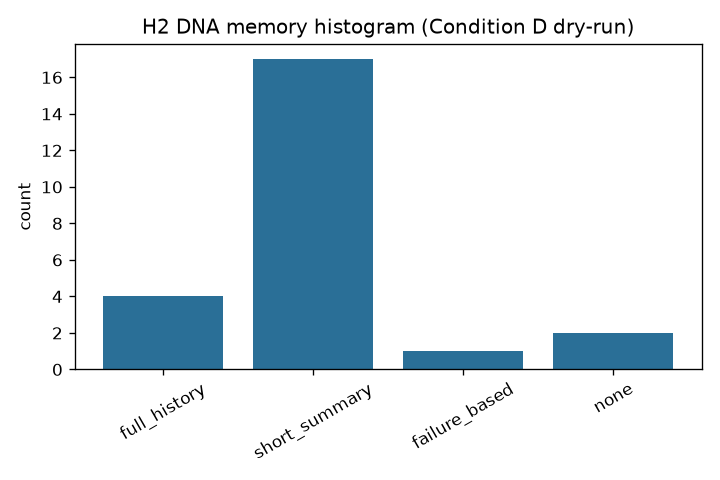
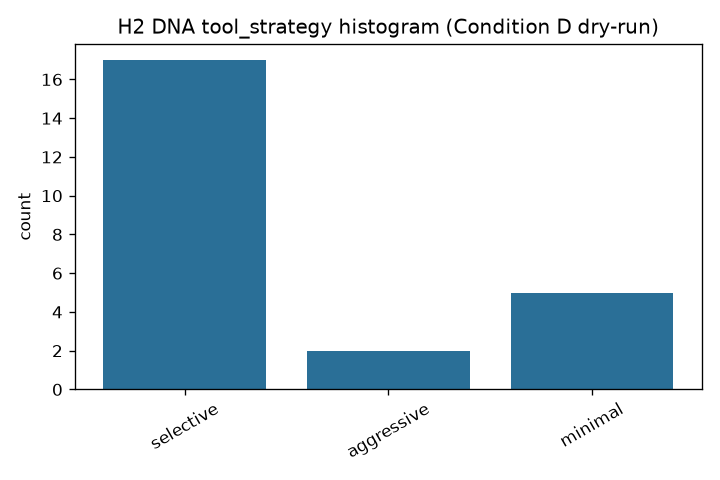
ICML Tick 362: offline Fig 2 uses primary H2 field.
Align paper Fig 2 and D_h2_share with auto-resolved h2 (tool_strategy /
retry_policy) instead of hard-coded h2_memory; regenerate offline artifacts.

diff --git a/tests/test_offline_case_study_steered.py b/tests/test_offline_case_study_steered.py
@@ -45,6 +45,95 @@ def _write_agent(run_dir: Path, gen: int, agent_id: int, *, trait: str, fitness:
     )
 
 
+def test_offline_fig2_uses_primary_h2_field_not_memory(tmp_path: Path, monkeypatch):
+    """Tick 362: offline Fig 2 must plot primary H2 (tool_strategy), not h2_memory."""
+    from offline_bvd_case_study import _maybe_figures
+
+    d_run = tmp_path / "run_d"
+    d_run.mkdir()
+    # summarize_run returns conflicting primary vs memory histograms — fig2 must
+    # follow primary ``h2`` (tool_strategy), not legacy ``h2_memory``.
+    fake = {
+        "learning_curve": {
+            "1": {"best": 0.2, "mean": 0.18},
+            "2": {"best": 0.25, "mean": 0.22},
+            "3": {"best": 0.31, "mean": 0.28},
+        },
+        "h2": {
+            "field": "tool_strategy",
+            "counts": {"selective": 9, "aggressive": 3},
+            "in_bias_share": 0.75,
+        },
+        "h2_field": "tool_strategy",
+        "h2_memory": {
+            "field": "memory",
+            "counts": {"short_summary": 8, "none": 4},
+            "in_bias_share": 0.1,
+        },
+    }
+    monkeypatch.setattr("offline_bvd_case_study.summarize_run", lambda _p: fake)
+
+    captured: dict[str, object] = {}
+
+    class _Ax:
+        def bar(self, labels, vals, color=None):  # noqa: ANN001
+            captured["labels"] = list(labels)
+            captured["vals"] = list(vals)
+
+        def plot(self, *a, **k):  # noqa: ANN001, ARG002
+            return None
+
+        def set_xlabel(self, *a, **k):  # noqa: ANN001, ARG002
+            return None
+
+        def set_ylabel(self, *a, **k):  # noqa: ANN001, ARG002
+            return None
+
+        def set_title(self, title, *a, **k):  # noqa: ANN001, ARG002
+            captured["title"] = title
+
+        def tick_params(self, *a, **k):  # noqa: ANN001, ARG002
+            return None
+
+        def grid(self, *a, **k):  # noqa: ANN001, ARG002
+            return None
+
+        def legend(self, *a, **k):  # noqa: ANN001, ARG002
+            return None
+
+    class _Fig:
+        def tight_layout(self):
+            return None
+
+        def savefig(self, *a, **k):  # noqa: ANN001, ARG002
+            return None
+
+    class _Plt:
+        @staticmethod
+        def subplots(*a, **k):  # noqa: ANN001, ARG002
+            return _Fig(), _Ax()
+
+        @staticmethod
+        def close(*a, **k):  # noqa: ANN001, ARG002
+            return None
+
+    import types
+    import sys
+
+    fake_mpl = types.ModuleType("matplotlib")
+    fake_mpl.use = lambda *a, **k: None  # noqa: ARG005
+    fake_pyplot = _Plt()
+    monkeypatch.setitem(sys.modules, "matplotlib", fake_mpl)
+    monkeypatch.setitem(sys.modules, "matplotlib.pyplot", fake_pyplot)
+
+    out = tmp_path / "figs"
+    written = _maybe_figures([], [d_run], out)
+    assert any("fig2_mechanism.png" in p for p in written)
+    assert captured.get("labels") == ["selective", "aggressive"]
+    assert "tool_strategy" in str(captured.get("title"))
+    assert "memory" not in str(captured.get("title")).lower()
+
+
 def test_preferred_share_helper():
     traits = [{"trait": "stepwise"}, {"trait": "direct"}, {"trait": "stepwise"}, {"trait": "hierarchical"}]
     assert preferred_share(traits, "stepwise") == 0.5

diff --git a/scripts/offline_bvd_case_study.py b/scripts/offline_bvd_case_study.py
@@ -504,16 +504,19 @@ def _maybe_figures(b_runs: list[Path], d_runs: list[Path], out_dir: Path) -> lis
     except ValueError:
         written.append(str(path))
 
-    # Fig 2 from first D run H2 histogram via summarize
+    # Fig 2 from first D run primary H2 (Tick 362: prefer auto-resolved field,
+    # typically tool_strategy — not hard-coded h2_memory / memory alleles).
     if d_runs:
         s = summarize_run(d_runs[0])
-        counts = (s.get("h2_memory") or {}).get("counts") or {}
+        h2 = s.get("h2") or s.get("h2_memory") or {}
+        counts = h2.get("counts") or {}
         if counts:
+            field = str(h2.get("field") or s.get("h2_field") or "memory")
             fig, ax = plt.subplots(figsize=(6, 4))
             labels = list(counts.keys())
             vals = [counts[k] for k in labels]
             ax.bar(labels, vals, color="#2a6f97")
-            ax.set_title("H2 DNA memory histogram (Condition D dry-run)")
+            ax.set_title(f"H2 DNA {field} histogram (Condition D dry-run)")
             ax.set_ylabel("count")
             ax.tick_params(axis="x", rotation=30)
             path = out_dir / "fig2_mechanism.png"
@@ -668,7 +671,14 @@ def main(argv: list[str] | None = None) -> int:
                 "D_h5_pass": (r["D"].get("h5") or {}).get("pass"),
                 "D_h5_key": (r["D"].get("h5") or {}).get("fitness_key"),
                 "D_h5_horizon": (r["D"].get("h5") or {}).get("delta_horizon"),
-                "D_h2_share": (r["D"].get("h2_memory") or {}).get("in_bias_share"),
+                # Tick 362: primary H2 (auto field), not legacy h2_memory-only.
+                "D_h2_field": (r["D"].get("h2") or r["D"].get("h2_memory") or {}).get(
+                    "field"
+                )
+                or r["D"].get("h2_field"),
+                "D_h2_share": (r["D"].get("h2") or r["D"].get("h2_memory") or {}).get(
+                    "in_bias_share"
+                ),
             }
             for r in compare.get("rows", [])
         ],

diff --git a/scripts/icml_env_checks.py b/scripts/icml_env_checks.py
@@ -2000,12 +2000,13 @@ def suggested_open_git_pr_body(
         )
     return (
         f"## Summary\n"
-        f"- Tick {tick}: live H2 bias-field auto-resolve — `resolve_h2_bias_field` / "
-        f"`compute_h2(field=None)` / G4 `score_live_h2` prefer the DNA field CABS "
-        f"actually biased (typically `tool_strategy`) instead of hard-coded "
-        f"`memory` (latent MECHANISM false-fail when bias≠memory). Tick 360 also "
-        f"emits PRIMARY `mean_final_b/d/gap` + `primary_final_pass` so G3→G4 "
-        f"promising and criterion (c) require mean gap >1pp. Tip PR GitHub "
+        f"- Tick {tick}: offline Fig 2 / summary **primary H2** alignment — "
+        f"`offline_bvd_case_study._maybe_figures` + `D_h2_share` follow auto-"
+        f"resolved `h2` (typically `tool_strategy` / `retry_policy`) instead of "
+        f"hard-coded `h2_memory`. Tick 361 already fixed live "
+        f"`resolve_h2_bias_field` / `compute_h2(field=None)` / G4 "
+        f"`score_live_h2`; Tick 360 emits PRIMARY `mean_final_b/d/gap` + "
+        f"`primary_final_pass`. Tip PR GitHub "
         f"**title and body** stay frozen when using `open_git_pr` MCP (does "
         f"**not** rewrite either on existing PRs — Tick 345 title finding; "
         f"Tick 346 body confirmation; Tick 347 independent ``tip_pr_body_stale``; "

diff --git a/docs/icml_live_pipeline_report.md b/docs/icml_live_pipeline_report.md
@@ -1,6 +1,6 @@
 # ICML live pipeline report — G2 → G3 → G4
 
-**Timestamp:** 2026-09-06T14:04:38Z
+**Timestamp:** 2026-09-06T18:06:01Z
 **Mode:** `preflight`
 **Ready for live stack:** no
 **ICML_READY:** IN_PROGRESS
@@ -57,4 +57,4 @@ G3 promising: n/a (G3 not scored this run)
 3. Portal Save of `docs/icml_portal_save_target.json` is **optional** (Tick 265–267: uv + runtime deps bootstrap in preflight).
 4. Do **not** set STATUS: READY from offline / preflight alone.
 5. Optional interim (easier than full tip): merge main-only AGENTS chicken-egg bootstrap PR #338 https://github.com/kshivam4781/DarwinianSIA/pull/338 — GitHub MERGEABLE/CLEAN: undraft & merge now (no conflicts) (branch `cursor/icml-main-agents-bootstrap`; Tick 341–342; 1-file — **not** a tip PR; does not replace merging the tip). Copy-paste: `gh pr ready 338 --repo kshivam4781/DarwinianSIA && gh pr merge 338 --repo kshivam4781/DarwinianSIA --merge`. Agents: tip anti-churn tip PR is unchanged — still commit/`open_git_pr` on `tip_pr_commit_branch` only.
-6. Merge the latest ICML tip PR into `main` so cron inherits `docs/ICML_*` + `scripts/icml_cron_entry.sh` (Tick 327–340 dual unblock; `main` still has hackathon-era AGENTS without tip files). See `docs/ICML_HUMAN_UNBLOCK.md` Dual human unblock. Concrete tip PR: #337 https://github.com/kshivam4781/DarwinianSIA/pull/337 — GitHub MERGEABLE/CLEAN: undraft & merge now (no conflicts). Copy-paste: `gh pr ready 337 --repo kshivam4781/DarwinianSIA && gh pr merge 337 --repo kshivam4781/DarwinianSIA --merge`. Agents/cron: do NOT open a new tip PR — checkout `cursor/icml-epistemic-results-f49c` (tip_pr_commit_branch; Tick 338–339 cron + tip recover --apply auto-checkout via icml_cron_entry / icml_boot_recover / icml_recover_tip) and push here so PR #337 updates (bash scripts/icml_checkout_tip_pr_branch.sh; open_git_pr branch=`cursor/icml-epistemic-results-f49c` — Tick 340: NEVER omit branch=; open_git_pr defaults to the greenfield boot branch and would open a new tip PR; see docs/icml_open_git_pr.json; Tick 344: also pass title=`suggested_open_git_pr_title` from that JSON when tip_pr_title_stale — stale titles look superseded among 300+ drafts; secrets-first title when fetch_diamond_ok is false; Tick 348–349: also pass description= from `open_git_pr_description` in `docs/icml_open_git_pr.json` (or `docs/icml_tip_pr_body.md`) when tip_pr_body_stale; Tick 350: prefer verbatim `docs/icml_open_git_pr_call.json` (branch/title/description); Tick 352: call JSON records ``cloud_boot_branch`` / ``omit_branch_opens_pr_on``; Tick 352: this run's cloud_boot_branch=`cursor/icml-epistemic-results-ff25` — omitting branch= opens a NEW tip PR on `cursor/icml-epistemic-results-ff25` (not `cursor/icml-epistemic-results-f49c`); Cloud Agent 'correct working branch' does NOT override tip anti-churn. Tick 345–347: if GitHub title/body stays stale, copy-paste `tip_pr_title_edit_commands` (`gh pr edit --title [--body-file docs/icml_tip_pr_body.md]`) — open_git_pr MCP does not rewrite title or body). Merge before next cron (~2h). Older tip PRs are superseded; merge only #337.
+6. Merge the latest ICML tip PR into `main` so cron inherits `docs/ICML_*` + `scripts/icml_cron_entry.sh` (Tick 327–340 dual unblock; `main` still has hackathon-era AGENTS without tip files). See `docs/ICML_HUMAN_UNBLOCK.md` Dual human unblock. Concrete tip PR: #337 https://github.com/kshivam4781/DarwinianSIA/pull/337 — GitHub MERGEABLE/CLEAN: undraft & merge now (no conflicts). Copy-paste: `gh pr ready 337 --repo kshivam4781/DarwinianSIA && gh pr merge 337 --repo kshivam4781/DarwinianSIA --merge`. Agents/cron: do NOT open a new tip PR — checkout `cursor/icml-epistemic-results-f49c` (tip_pr_commit_branch; Tick 338–339 cron + tip recover --apply auto-checkout via icml_cron_entry / icml_boot_recover / icml_recover_tip) and push here so PR #337 updates (bash scripts/icml_checkout_tip_pr_branch.sh; open_git_pr branch=`cursor/icml-epistemic-results-f49c` — Tick 340: NEVER omit branch=; open_git_pr defaults to the greenfield boot branch and would open a new tip PR; see docs/icml_open_git_pr.json; Tick 344: also pass title=`suggested_open_git_pr_title` from that JSON when tip_pr_title_stale — stale titles look superseded among 300+ drafts; secrets-first title when fetch_diamond_ok is false; Tick 348–349: also pass description= from `open_git_pr_description` in `docs/icml_open_git_pr.json` (or `docs/icml_tip_pr_body.md`) when tip_pr_body_stale; Tick 350: prefer verbatim `docs/icml_open_git_pr_call.json` (branch/title/description); Tick 352: call JSON records ``cloud_boot_branch`` / ``omit_branch_opens_pr_on``; Tick 352: this run's cloud_boot_branch=`cursor/icml-epistemic-results-6090` — omitting branch= opens a NEW tip PR on `cursor/icml-epistemic-results-6090` (not `cursor/icml-epistemic-results-f49c`); Cloud Agent 'correct working branch' does NOT override tip anti-churn. Tick 345–347: if GitHub title/body stays stale, copy-paste `tip_pr_title_edit_commands` (`gh pr edit --title [--body-file docs/icml_tip_pr_body.md]`) — open_git_pr MCP does not rewrite title or body). Merge before next cron (~2h). Older tip PRs are superseded; merge only #337.

diff --git a/docs/icml_tip_pr_body.md b/docs/icml_tip_pr_body.md
@@ -1,5 +1,5 @@
 ## Summary
-- Tick 361: live H2 bias-field auto-resolve — `resolve_h2_bias_field` / `compute_h2(field=None)` / G4 `score_live_h2` prefer the DNA field CABS actually biased (typically `tool_strategy`) instead of hard-coded `memory` (latent MECHANISM false-fail when bias≠memory). Tick 360 also emits PRIMARY `mean_final_b/d/gap` + `primary_final_pass` so G3→G4 promising and criterion (c) require mean gap >1pp. Tip PR GitHub **title and body** stay frozen when using `open_git_pr` MCP (does **not** rewrite either on existing PRs — Tick 345 title finding; Tick 346 body confirmation; Tick 347 independent ``tip_pr_body_stale``; Tick 348–349 pass ``description=`` from `open_git_pr_description` in `docs/icml_open_git_pr.json` or `docs/icml_tip_pr_body.md`; Tick 350: prefer verbatim args from `docs/icml_open_git_pr_call.json`; Tick 353–359: cron exports `ICML_CLOUD_BOOT_BRANCH` before tip recover; Tick 354 ignores env==tip + persists `docs/icml_cloud_boot_branch.txt`; Tick 355 unsets env==tip and does not clobber the boot file with tip; Tick 356 gitignores the boot file + excludes it from ephemeral discard so tip --apply cannot wipe it; Tick 357 rejects short/non-``cursor/*`` boot poison + ``icml_checkout_tip_pr_branch.sh`` persists boot before tip checkout; Tick 358 checkout also refreshes `docs/icml_open_git_pr_call.json` so ``cloud_boot_branch`` matches the just-persisted boot; Tick 359 gitignores call JSON + excludes it from ephemeral discard so tip --apply cannot ``git restore`` a stale committed boot name). Refresh via `tip_pr_title_edit_commands` (`gh pr edit --title … --body-file docs/icml_tip_pr_body.md`).
+- Tick 362: offline Fig 2 / summary **primary H2** alignment — `offline_bvd_case_study._maybe_figures` + `D_h2_share` follow auto-resolved `h2` (typically `tool_strategy` / `retry_policy`) instead of hard-coded `h2_memory`. Tick 361 already fixed live `resolve_h2_bias_field` / `compute_h2(field=None)` / G4 `score_live_h2`; Tick 360 emits PRIMARY `mean_final_b/d/gap` + `primary_final_pass`. Tip PR GitHub **title and body** stay frozen when using `open_git_pr` MCP (does **not** rewrite either on existing PRs — Tick 345 title finding; Tick 346 body confirmation; Tick 347 independent ``tip_pr_body_stale``; Tick 348–349 pass ``description=`` from `open_git_pr_description` in `docs/icml_open_git_pr.json` or `docs/icml_tip_pr_body.md`; Tick 350: prefer verbatim args from `docs/icml_open_git_pr_call.json`; Tick 353–359: cron exports `ICML_CLOUD_BOOT_BRANCH` before tip recover; Tick 354 ignores env==tip + persists `docs/icml_cloud_boot_branch.txt`; Tick 355 unsets env==tip and does not clobber the boot file with tip; Tick 356 gitignores the boot file + excludes it from ephemeral discard so tip --apply cannot wipe it; Tick 357 rejects short/non-``cursor/*`` boot poison + ``icml_checkout_tip_pr_branch.sh`` persists boot before tip checkout; Tick 358 checkout also refreshes `docs/icml_open_git_pr_call.json` so ``cloud_boot_branch`` matches the just-persisted boot; Tick 359 gitignores call JSON + excludes it from ephemeral discard so tip --apply cannot ``git restore`` a stale committed boot name). Refresh via `tip_pr_title_edit_commands` (`gh pr edit --title … --body-file docs/icml_tip_pr_body.md`).
 - **PRIMARY blocker:** add `NEBIUS_API_KEY` + (`HF_TOKEN` or local `gpqa_diamond.csv`) so cron can run live G2→G3→G4.
 - Offline PRIMARY/H5 unchanged (`1890–1904`); STATUS remains IN_PROGRESS (not READY).
 

diff --git a/docs/gate2_report.md b/docs/gate2_report.md
@@ -1,8 +1,8 @@
 # Gate 2 report — GPQA smoke (Condition D)
 
-**Timestamp:** 2026-09-06T14:06:23Z
-**Mode:** `dry-run`
-**Run ID:** `1910`
+**Timestamp:** 2026-09-06T18:06:06Z
+**Mode:** `preflight`
+**Run ID:** `1300`
 
 ## Preflight checks
 
@@ -13,14 +13,14 @@
 | `gpqa_smoke_or_real` | yes | synthetic smoke OK for dry-run/preflight |
 | `anthropic_key` | yes | optional (Nebius meta; ANTHROPIC unused) |
 | `nebius_key` | NO | NEBIUS_API_KEY missing |
-| `hf_token_optional` | yes | missing (optional; needed for HF gpqa download) |
+| `hf_token` | NO | HF_TOKEN / HUGGINGFACE_HUB_TOKEN missing (required for --fetch-diamond) |
 | `budget` | yes | spent=$0.00 ceiling=$20.00 |
-| `run_id_free` | yes | run_1910 unused |
+| `run_id_free` | yes | run_1300 unused |
 | `per_run_venv` | yes | uv available at /home/ubuntu/.local/bin/uv (SIA per-run venv path) |
 | `runtime_deps` | yes | uv available at /home/ubuntu/.local/bin/uv; sia importable via PYTHONPATH=/workspace/SIA; huggingface_hub + pydantic_ai already importable; user site on PYTHONPATH (/home/ubuntu/.local/lib/python3.12/site-packages) |
 | `nebius_meta_profile` | yes | kimi-nebius-pydantic-meta → nebius / pydantic-ai (moonshotai/Kimi-K2.6) |
 | `nebius_target_profile` | yes | kimi-nebius-target → nebius (moonshotai/Kimi-K2.6) |
-| `tip_ok_for_live` | yes | local Tick 359 matches remote tip refs/remotes/origin/cursor/icml-epistemic-results-f49c |
+| `tip_ok_for_live` | yes | local Tick 362 matches remote tip refs/remotes/origin/cursor/icml-epistemic-results-f49c |
 
 **Ready for dry-run:** yes
 **Ready for live G2:** no
@@ -28,25 +28,21 @@
 ## Planned command
 
 ```bash
-/usr/bin/python3 -m sia run --task gpqa --darwinian --cabs --cabs-inline --population_size 2 --elite_count 1 --max_gen 2 --run_id 1910 --eval_subset 5 --no-web --seed 42 --dry-run --meta-agent-profile kimi-nebius-pydantic-meta --target-agent-profile kimi-nebius-target
+/usr/bin/python3 -m sia run --task gpqa --darwinian --cabs --cabs-inline --population_size 2 --elite_count 1 --max_gen 2 --run_id 1300 --eval_subset 5 --no-web --seed 42 --dry-run --meta-agent-profile kimi-nebius-pydantic-meta --target-agent-profile kimi-nebius-target
 ```
 
 ## Blockers
 
 - gpqa_not_synthetic: synthetic smoke fixture detected — replace with real GPQA diamond before paid G2
 - nebius_key: NEBIUS_API_KEY missing
+- hf_token: HF_TOKEN / HUGGINGFACE_HUB_TOKEN missing (required for --fetch-diamond)
 
-## Post-run artifact validation
+## Notes
 
-| Check | OK | Detail |
-|-------|----|--------|
-| `run_dir` | yes | /workspace/SIA/runs/run_1910 |
-| `belief_store` | yes | /workspace/SIA/runs/run_1910/belief_store |
-| `epistemic_value_jsonl` | yes | present |
-| `cabs_json` | yes | contradictions/beliefs present |
-| `scoped_mutation_bias` | yes | fields=['memory', 'tool_strategy'] |
+- runtime deps before diamond: uv available at /home/ubuntu/.local/bin/uv; sia importable via PYTHONPATH=/workspace/SIA; huggingface_hub + pydantic_ai already importable; user site on PYTHONPATH (/home/ubuntu/.local/lib/python3.12/site-packages)
+- diamond fetch failed: HF_TOKEN / HUGGINGFACE_HUB_TOKEN required to download gated Idavidrein/gpqa. Accept dataset terms on HuggingFace, then set the token.
 
-**G2 dry-run harness status:** PASS (not live G2)
+**G2 live status:** NOT RUN this tick
 
 ## Next
 

diff --git a/docs/HACKATHON_MASTER_PLAN.md b/docs/HACKATHON_MASTER_PLAN.md
@@ -2,7 +2,7 @@
 
 > **READ THIS FIRST.** Any agent working on this repo must read this entire document before planning, coding, or running expensive commands. Do not re-plan from scratch. Implement in phase order with gates.
 
-**Last updated:** 2026-09-06 (Section 21 ICML; Tick 361 live H2 bias-field auto-resolve; Tick 360 PRIMARY mean_final_gap; Tick 359 call-JSON gitignore; …)
+**Last updated:** 2026-09-06 (Section 21 ICML; Tick 362 offline Fig2 primary H2; Tick 361 live H2 bias-field auto-resolve; Tick 360 PRIMARY mean_final_gap; …)
 **Project:** SIA-CABS (Contradiction-Aware Belief System) — **Layer 1 of unified self-improvement stack**  
 **Workspace:** `c:\Users\MSPSA\Documents\SIA2`  
 **Sibling repo:** Darwinian AI Civilization → `c:\Users\MSPSA\Documents\SIA` (build in parallel; merge later)  
@@ -955,6 +955,7 @@ Computed in `cabs/belief_engine.py`:
 | ICML call-JSON gitignore + discard survive (Tick 359) | **DONE** | `docs/icml_open_git_pr_call.json` gitignored + excluded from `EPHEMERAL_ICML_RELPATHS`; cron `already_on` refreshes; tip `--apply` cannot `git restore` stale committed boot |
 | ICML PRIMARY mean_final_gap (Tick 360) | **DONE** | `compare_b_vs_d` emits `mean_final_b/d/gap` + `primary_final_pass`; G4 `primary_criteria_pass` + READY checklist use mean gap >1pp for criterion (c); G3 promising fallback no longer dead |
 | ICML live H2 bias-field auto-resolve (Tick 361) | **DONE** | `resolve_h2_bias_field` / `compute_h2(field=None)` / G4 `score_live_h2` auto-pick biased DNA field (prefer `tool_strategy`); closes latent MECHANISM false-fail when bias≠memory |
+| ICML offline Fig2 primary H2 field (Tick 362) | **DONE** | Offline `_maybe_figures` + `D_h2_share` use primary `h2` (not `h2_memory`); regen Figs 1–2; fields tool_strategy/retry_policy |
 | ICML B vs D multi-seed GPQA | **NOT DONE** | Blocked on NEBIUS + HF/CSV (Anthropic optional under Tick 289 meta); Tick 268–361 stack ready; next: secrets (+ optional merge tip→main / AGENTS bootstrap), then `bash scripts/icml_cron_entry.sh` |
 | H2 DNA trait skew evidence | **PARTIAL** | Unit + dry-run + offline post-steer case study (`run_1900` gen3 share 0.75); need live API |
 | Non-constant epistemic_value (H5) | **DONE (offline)** | Age-decay + flow + steering opportunity (`cabs_inline.py`) |
@@ -2498,4 +2499,6 @@ sia run --task gpqa --darwinian --population_size 4 --elite_count 2 \
 
 
 **ICML live H2 bias-field auto-resolve (Tick 361):** G4 `score_live_h2` / `compute_h2` previously hard-coded DNA field `memory`, while CABS contradictions and the publishable case study typically steer `tool_strategy`. Empty `bias_values` on the wrong field caused a latent live MECHANISM false-fail. Now `resolve_h2_bias_field` auto-picks the biased field (prefer `tool_strategy`). Live still blocked on NEBIUS + HF/CSV. STATUS remains IN_PROGRESS.
+
+**Offline Fig 2 primary H2 field (Tick 362):** Tick 361 fixed scoring/summarize, but offline paper Fig 2 still plotted `h2_memory` and summary `D_h2_share` ignored primary `h2`. `_maybe_figures` + brief rows now follow auto-resolved field (regen shows `tool_strategy` / `retry_policy`, not memory). STATUS remains IN_PROGRESS (still needs NEBIUS + HF/CSV).
 

diff --git a/docs/ICML_PROGRESS.md b/docs/ICML_PROGRESS.md
@@ -1,5 +1,41 @@
 # ICML Thesis 1 — Progress log
 
+## 2026-09-06T18:05Z — Tick 362 (automation cron)
+
+### Status snapshot
+- `docs/ICML_READY.md`: **STATUS: IN_PROGRESS**
+- Branch: `cursor/icml-epistemic-results-f49c` (anti-churn: commits onto tip PR #337 head)
+- Bootstrap PR (not tip): https://github.com/kshivam4781/DarwinianSIA/pull/338 — `cursor/icml-main-agents-bootstrap`
+- API keys in cloud env: **absent** (NEBIUS + HF/CSV still required; Anthropic optional)
+- Budget: ~$20 ceiling; spend this tick = $0
+- `main_has_icml_tip`: **false** (origin/main still lacks `scripts/icml_cron_entry.sh`)
+- Tip PR title+body still stale: **Tick 336** on GitHub
+- Boot branch was greenfield `cursor/icml-epistemic-results-6090`; recovered tip `f49c`
+
+### Largest gap diagnosed
+Live PRIMARY still blocked on **secrets**. Tick 361 fixed live H2 field auto-resolve in scoring, but offline paper Fig 2 (`_maybe_figures`) and `D_h2_share` still read hard-coded `h2_memory` — so the publishable mechanism figure could show memory alleles while the case study / CABS bias steers `tool_strategy` (or `retry_policy`). Highest leverage without paid spend: **align offline Fig 2 + summary H2 with primary auto-resolved field**.
+
+### What this tick did (ONE step)
+**Offline Fig 2 / summary primary-H2 alignment (no API spend; tip PR #337 updated in place):**
+1. Recovered tip ← Tick 361 (`f49c`); confirmed secrets absent; boot `6090` vs tip `f49c`
+2. `offline_bvd_case_study._maybe_figures` plots `h2` (fallback `h2_memory`) with field in title; `compare_rows_brief` emits `D_h2_field` + primary `D_h2_share`
+3. Regenerated offline Bvd `1890–1904` + Figs 1–2; H2 fields observed: tool_strategy / retry_policy (not memory); PRIMARY unchanged (final 5/5, gens30/cost30 4/5, gap ~6.15pp, H5 5/5)
+4. Test: `test_offline_fig2_uses_primary_h2_field_not_memory`; STATUS remains IN_PROGRESS; secrets re-requested
+
+### Metrics delta
+| Metric | Before (Tick 361) | After (Tick 362) |
+|--------|-------------------|------------------|
+| Offline D final / gens30 / cost30 / H5 | 5/5 / 4/5 / 4/5 / 5/5 | unchanged |
+| Offline Fig 2 DNA field | hard-coded `h2_memory` | **primary `h2`** (auto field) |
+| Summary `D_h2_field` | absent | **tool_strategy / retry_policy** |
+| Live PRIMARY / G2 | Blocked on NEBIUS + HF/CSV | Still blocked |
+| `ICML_READY` | IN_PROGRESS | IN_PROGRESS |
+
+### Next recommended step
+Human: (1) add `NEBIUS_API_KEY` (+ `HF_TOKEN` or drop `gpqa_diamond.csv`) — **PRIMARY path**; (2) optional: refresh tip PR #337 title/body via `tip_pr_title_edit_commands` and/or merge #337/#338. Then: `bash scripts/icml_cron_entry.sh` → G2→G3→G4 + paper pack → STATUS READY when criteria pass.
+
+---
+
 ## 2026-09-06T16:20Z — Tick 361 (automation cron)
 
 ### Status snapshot

diff --git a/docs/paper_artifacts.md b/docs/paper_artifacts.md
@@ -84,7 +84,7 @@ Mean final: B ≈ 0.253, D ≈ 0.314 (gap ~**6.15pp**). D final wins **5/5**; ge
 | 1 | Accuracy / cost curves B vs D (offline draft) | `docs/figures/fig1_learning_curves.png` |
 | 2 | H2 DNA skew / case-study support (offline draft) | `docs/figures/fig2_mechanism.png` |
 
-Offline Figs 1–2 regenerated at Tick **302** from live-shape pilot `1890–1904` (summary `figures` locked; Tick 300 had left `figures: []` when matplotlib was absent).
+Offline Figs 1–2 regenerated at Tick **362** from live-shape pilot `1890–1904` using **primary H2** (auto-resolved DNA field — typically `tool_strategy`, not hard-coded `memory`; Tick 302 first populated on-disk paths).
 
 ## Case study (offline)
 
@@ -93,7 +93,7 @@ See `docs/case_study_offline.md`. Summary: gen1 contradiction on `tool_strategy`
 ## Limitations (honest, keep updated)
 
 - Mutation bias was previously a no-op (full enum); fixed and **validated on dry-run G1** (`run_1401`) but **not yet on live GPQA**.
-- Live H2 scoring previously hard-coded DNA field `memory` while CABS typically steers `tool_strategy` (case study); Tick **361** auto-resolves the biased field so live MECHANISM does not false-fail — still **unverified on live GPQA**.
+- Live H2 scoring previously hard-coded DNA field `memory` while CABS typically steers `tool_strategy` (case study); Tick **361** auto-resolves the biased field so live MECHANISM does not false-fail — still **unverified on live GPQA**. Offline Fig 2 / `D_h2_share` still plotted `h2_memory` until Tick **362** aligned them with primary `h2`.
 - Same-allele cross-agent “contradictions” previously created singleton bias pools that wiped better elites; Tick 10 skips those pools — still **unverified on live GPQA**.
 - Pre-Tick-7 bias treated both contradiction sides uniformly; now fitness-weighted + preferred-allele anchoring (unit-tested) but **unverified on live GPQA**.
 - Soft bias-aware crossover (Tick 11) raised offline final seed wins to 3/5 but **hurt gens-to-30% (0/5) and H5 (2/5)** vs Tick 10.

diff --git a/docs/ICML_READY.md b/docs/ICML_READY.md
@@ -393,6 +393,7 @@ Do not set STATUS: READY until every item below is checked and evidence paths ar
 - [x] Tick 359 call-JSON gitignore + discard survive — `docs/icml_open_git_pr_call.json` gitignored + excluded from `EPHEMERAL_ICML_RELPATHS` (tip HEAD `git restore` used to re-poison `…-48b0`); cron `already_on` refreshes; lock test `test_call_json_gitignored_survives_ephemeral_discard`
 - [x] Tick 360 PRIMARY mean_final_gap — `compare_b_vs_d` emits `mean_final_b/d/gap` + `primary_final_pass`; G4 criterion (c) + G3 promising use mean gap >1pp; offline summary `primary_final_pass=true` (~6.15pp)
 - [x] Tick 361 live H2 bias-field auto-resolve — `resolve_h2_bias_field` / `compute_h2(field=None)` / G4 `score_live_h2` prefer `tool_strategy` over hard-coded `memory` (latent MECHANISM false-fail fix)
+- [x] Tick 362 offline Fig 2 primary H2 field — `_maybe_figures` + `D_h2_share` use auto-resolved `h2` (not `h2_memory`); regen Figs 1–2 at `1890–1904`
 
 ## Gate tracker (Section 21.5)
 
@@ -405,4 +406,4 @@ Do not set STATUS: READY until every item below is checked and evidence paths ar
 | G4 5-seed + metrics | **PREFLIGHT READY** (Tick 27–28: `run_g4_multiseed.py` + full paper pack); **live** NOT STARTED (blocked on keys; run after G3) |
 | G5 paper pack | PARTIAL (offline figs + post-steer case study + offline PRIMARY gens30/cost30 4/5 + offline H5 5/5); live pack automatable via Tick 28/29 pipeline but NOT STARTED |
 
-<!-- Tick 361 note: Gate labels / secrets stack through Tick 361 live H2 bias-field auto-resolve; live still blocked on NEBIUS+HF -->
+<!-- Tick 362 note: Gate labels / secrets stack through Tick 362 offline Fig2 primary H2; live still blocked on NEBIUS+HF -->

diff --git a/docs/gate3_report.md b/docs/gate3_report.md
@@ -1,6 +1,6 @@
 # Gate 3 report — Pilot B vs D
 
-**Timestamp:** 2026-09-06T14:04:51Z
+**Timestamp:** 2026-09-06T18:06:10Z
 **Mode:** `preflight`
 **Live G3 ready:** no
 
@@ -52,7 +52,7 @@ Prior Tick-23 pilot `1830–1834` / `1840–1844` remains the first post-steerin
 | `nebius_target_profile` | yes | kimi-nebius-target → nebius (moonshotai/Kimi-K2.6) |
 | `g3g4_recipes_match_live_shape` | yes | committed gate3/4 + Section 21.7 match icml_g3g4_live_shape() |
 | `offline_bvd_matches_live_shape` | yes | offline Bvd summary + paper IDs + figures match live shape |
-| `tip_ok_for_live` | yes | local Tick 359 matches remote tip refs/remotes/origin/cursor/icml-epistemic-results-f49c |
+| `tip_ok_for_live` | yes | local Tick 362 matches remote tip refs/remotes/origin/cursor/icml-epistemic-results-f49c |
 
 ### Planned seed pairs
 

diff --git a/docs/gate4_report.md b/docs/gate4_report.md
@@ -1,6 +1,6 @@
 # Gate 4 report — 5-seed B vs D
 
-**Timestamp:** 2026-09-06T14:04:55Z
+**Timestamp:** 2026-09-06T18:06:15Z
 **Mode:** `preflight`
 **Live G4 ready:** no
 **PRIMARY pass (≥3/5):** no
@@ -24,7 +24,7 @@
 | `nebius_target_profile` | yes | kimi-nebius-target → nebius (moonshotai/Kimi-K2.6) |
 | `g3g4_recipes_match_live_shape` | yes | committed gate3/4 + Section 21.7 match icml_g3g4_live_shape() |
 | `offline_bvd_matches_live_shape` | yes | offline Bvd summary + paper IDs + figures match live shape |
-| `tip_ok_for_live` | yes | local Tick 359 matches remote tip refs/remotes/origin/cursor/icml-epistemic-results-f49c |
+| `tip_ok_for_live` | yes | local Tick 362 matches remote tip refs/remotes/origin/cursor/icml-epistemic-results-f49c |
 
 ### Planned seed pairs
 
